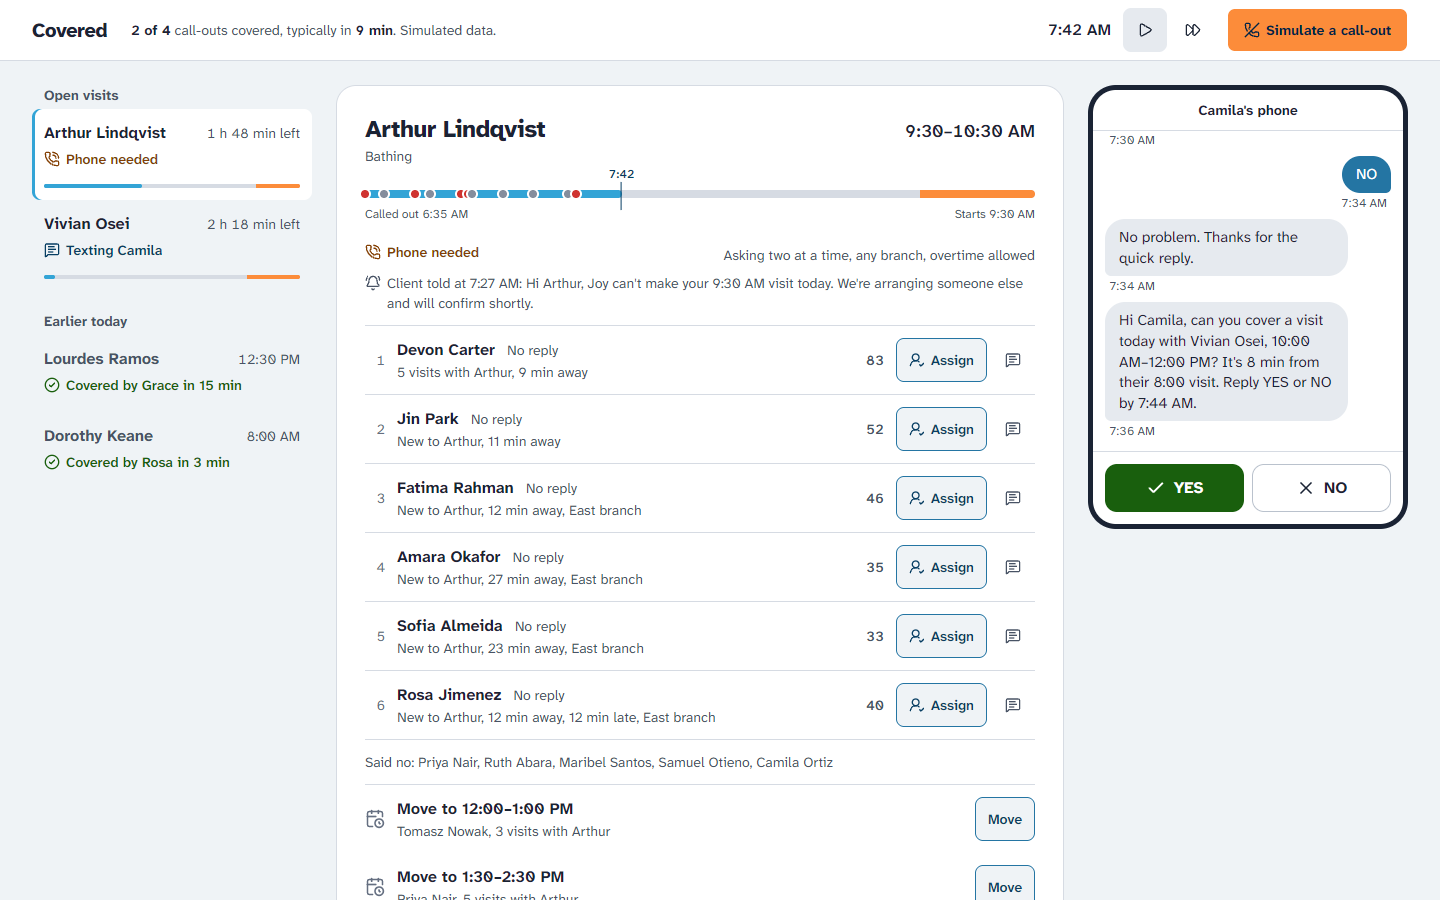
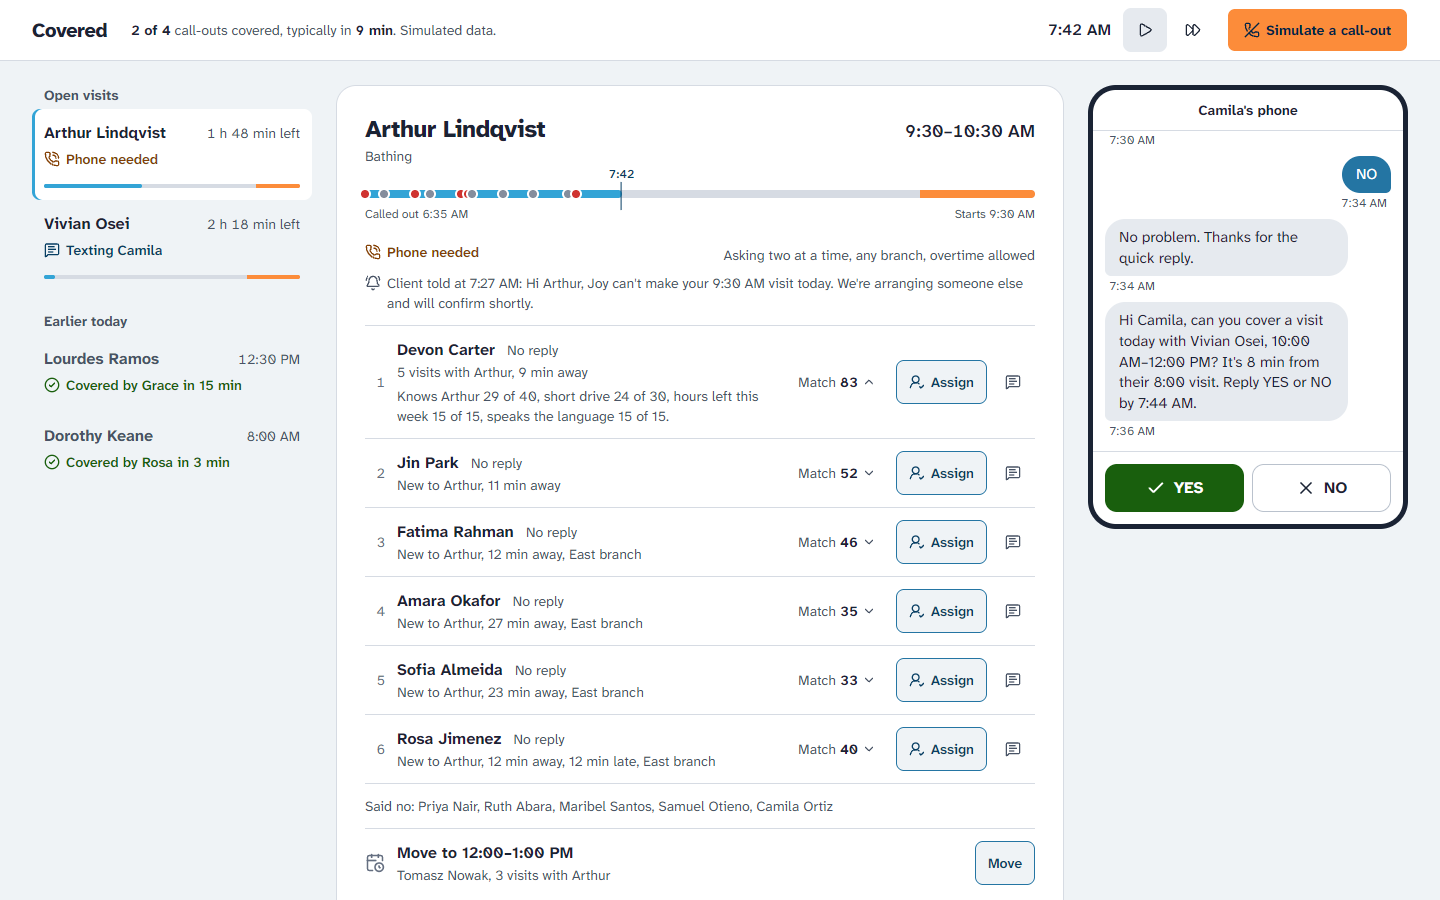
Label the match score and explain it on click

diff --git a/src/components/VisitDetail.tsx b/src/components/VisitDetail.tsx
@@ -27,7 +27,7 @@ function offerNote(offer: Offer): { text: string; className: string } {
   }
 }
 
-/** The two or three facts that explain where someone ranks. The full breakdown is in the tooltip. */
+/** The two or three facts that explain where someone ranks. The rest is behind the match score. */
 function facts(c: Candidate, clientFirstName: string): string {
   const f = c.facts
   const parts = [
@@ -40,15 +40,22 @@ function facts(c: Candidate, clientFirstName: string): string {
   return parts.join(', ')
 }
 
-function breakdown(c: Candidate): string {
+/** What the match score is made of, in words. */
+function breakdown(c: Candidate, clientFirstName: string): string {
   const p = c.parts
-  return `Match ${c.score} of 100. Knows the client ${Math.round(p.continuity)}/40, drive ${Math.round(p.travel)}/30, hours left ${Math.round(p.hours)}/15, language ${Math.round(p.fit)}/15.`
+  const parts = [
+    `Knows ${clientFirstName} ${Math.round(p.continuity)} of 40`,
+    `short drive ${Math.round(p.travel)} of 30`,
+    `hours left this week ${Math.round(p.hours)} of 15`,
+    `speaks the language ${Math.round(p.fit)} of 15`,
+  ]
+  if (c.facts.lateBy > 0) parts.push(`minus ${c.facts.lateBy} for arriving late`)
+  return `${parts.join(', ')}.`
 }
 
 function Row({
   position,
   candidate,
-  score,
   clientFirstName,
   note,
   pending = false,
@@ -56,12 +63,12 @@ function Row({
 }: {
   position: number
   candidate: Candidate
-  score: number
   clientFirstName: string
   note?: { text: string; className: string }
   pending?: boolean
   children?: React.ReactNode
 }) {
+  const [explained, setExplained] = useState(false)
   return (
     <li className={`flex flex-wrap items-center gap-x-3 gap-y-1 py-3 ${pending ? 'animate-arrive' : ''}`}>
       <span className="tabular w-5 shrink-0 text-right text-sm text-slate-500">{position}</span>
@@ -76,11 +83,17 @@ function Row({
           )}
         </p>
         <p className="text-sm text-slate-600">{facts(candidate, clientFirstName)}</p>
+        {explained && <p className="mt-1 text-sm text-slate-600">{breakdown(candidate, clientFirstName)}</p>}
       </div>
-      <span className="tabular shrink-0 text-sm font-semibold text-slate-600" title={breakdown({ ...candidate, score })}>
-        <span className="sr-only">Match </span>
-        {score}
-      </span>
+      <button
+        type="button"
+        onClick={() => setExplained(!explained)}
+        aria-expanded={explained}
+        className="tabular inline-flex h-11 shrink-0 items-center gap-1 rounded-lg px-2 text-sm text-slate-600 hover:bg-slate-100"
+      >
+        Match <strong className="font-bold text-ink">{candidate.score}</strong>
+        <ChevronDown className={`size-3.5 transition-transform ${explained ? 'rotate-180' : ''}`} aria-hidden />
+      </button>
       <span className="flex w-full shrink-0 justify-end gap-1 empty:hidden sm:w-auto">{children}</span>
     </li>
   )
@@ -165,7 +178,6 @@ export function VisitDetail({
               key={offer.caregiverId}
               position={i + 1}
               candidate={candidate}
-              score={offer.score}
               clientFirstName={firstName}
               note={offer.status === 'accepted' && open.coveredVia !== 'offer' ? { text: 'Assigned', className: 'font-semibold text-good-600' } : offerNote(offer)}
               pending={offer.status === 'pending'}
@@ -190,7 +202,6 @@ export function VisitDetail({
             key={candidate.caregiver.id}
             position={inPlay.length + i + 1}
             candidate={candidate}
-            score={candidate.score}
             clientFirstName={firstName}
             note={i === 0 ? { text: 'Next', className: 'text-slate-600' } : undefined}
           >

diff --git a/README.md b/README.md
@@ -116,7 +116,7 @@ I built Covered with Claude Code as a pair programmer. I set the product directi
 | **Moving the visit** | Never · automatically · offer it to the scheduler | Offered to the scheduler, two options, only once flagged | Automation. A person has to choose and agree it with the client. | A new time changes the client's day, so a person should make that call. Caregivers the client knows come first because a later visit with a familiar face is an easier ask. |
 | **Telling the client** | Only if the visit is missed · at every step · when it is at risk and when it is settled | At risk, then the outcome | Silence while texts are still going out normally | Most call-outs are covered before the client would notice. Telling them at the point of real risk, and again with a name and a time, is honest without causing worry over every call-out. |
 | **After a call-out** | Still offer them other visits · leave them out for the day | Left out for the day | A caregiver who dropped one visit but could do a later one | Someone who just called out is usually unavailable, and the text would read badly. |
-| **Showing the reasoning** | Show only the order · show everything · show the top reasons, the rest on request | Two facts and a score per caregiver, with the score breakdown and every rule-out one step away | Some detail at a glance | A scheduler won't trust an order they can't check. A screen that shows every factor for every caregiver is too much to read at 7 AM. |
+| **Showing the reasoning** | Show only the order · show everything · show the top reasons, the rest on request | Two facts and a match score per caregiver. Clicking the score explains it, and every rule-out is one step away | Some detail at a glance | A scheduler won't trust an order they can't check. A screen that shows every factor for every caregiver is too much to read at 7 AM. |
 | **Demo data** | Random each load · fixed simulated day | Fixed seed, the same day every time | Variety | Anyone opening the demo sees the same state, and the tests can assert on it. |
 
 **Known gaps:** the score weights, reply windows and the 45-minute late limit are my starting assumptions and have not been tuned on real data. A caregiver who doesn't reply is never texted again for that visit. Moving a visit assumes the client agrees to the new time. Every open visit is treated as equally urgent, whatever the client needs. The simulation's reply rates are invented, so the demo can't show whether this fills more visits than a scheduler with a phone.

diff --git a/DESIGN.md b/DESIGN.md
@@ -119,7 +119,7 @@ Built on shadcn/ui (copied into `src/components/ui`) and Tailwind. Icons are Luc
 
 - **Time track**: thin rounded bar, a sky fill for time used, orange for the last 30 minutes, dots for each text sent, a labelled marker for now.
 - **Status line**: icon plus words. Working (blue, message icon), phone needed (orange text, phone icon), covered (green, check), missed (red, cross).
-- **Match score**: a single number per caregiver. Its four parts show in a tooltip.
+- **Match score**: the word "Match" and a number, in ink, never coloured by value. The list is already in score order, and colour is reserved for status. Clicking it opens one line saying what the score is made of.
 - **Phone**: thick navy bezel, agency texts in grey on the left, the caregiver's replies in blue on the right, YES and NO as 48px buttons.
 
 ## Words
